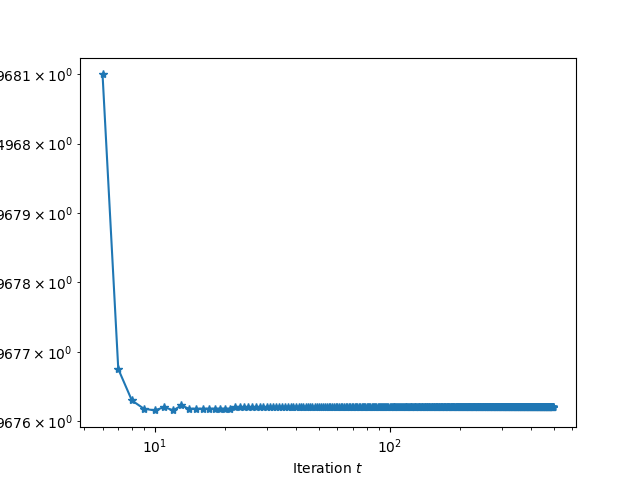
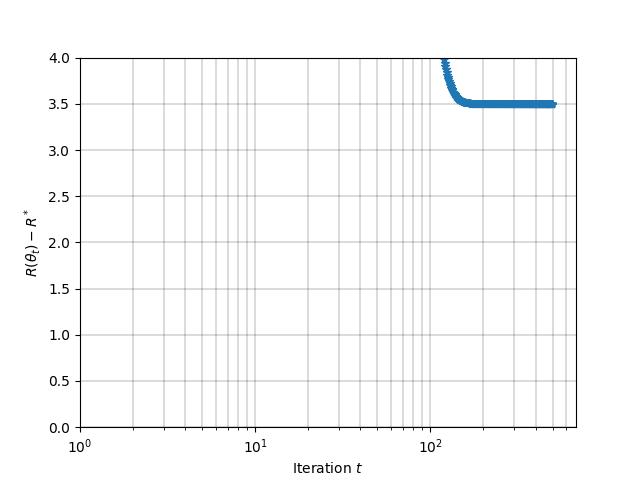
plt Xlim

diff --git a/.ipynb_checkpoints/paper_like-checkpoint.py b/.ipynb_checkpoints/paper_like-checkpoint.py
@@ -40,7 +40,8 @@ output_Tensor = torch.from_numpy(observations).to(torch.float32)
 MLP = Multi_Layer_Perceptron(input_dim=p,
                              intern_dim=intern_dim,
                              output_dim=1,
-                             depth=0)
+                             depth=0,
+                             isBiased = False)
 
 errors_MLP = train(MLP,
       input_Tensor,
@@ -49,7 +50,7 @@ errors_MLP = train(MLP,
       optimizer=optimizer,
       epochs=epochs,
       return_vals=True,
-      init_norm = 1,
+      init_norm = None,
       lr = 0.001)
 
 fig1,ax1 = plt.subplots(1,1)
@@ -57,5 +58,8 @@ ax1.plot(range(epochs), errors_MLP, marker='*')
 ax1.set_xlabel(r'Iteration $t$')
 ax1.set_ylabel(r'$R(\theta_t) - R^*$')
 ax1.set_xscale('log')
-ax1.set_yscale('log')
+ax1.set_yscale('linear')
+plt.xlim(left=1)
+plt.ylim(bottom=0)
+plt.grid(color='black', which="both", linestyle='-', linewidth=0.2)
 plt.savefig(f'figures/excess_risk_n{n}_t{epochs}_{optimizer}')

diff --git a/paper_like.py b/paper_like.py
@@ -40,7 +40,8 @@ output_Tensor = torch.from_numpy(observations).to(torch.float32)
 MLP = Multi_Layer_Perceptron(input_dim=p,
                              intern_dim=intern_dim,
                              output_dim=1,
-                             depth=0)
+                             depth=0,
+                             isBiased = False)
 
 errors_MLP = train(MLP,
       input_Tensor,
@@ -49,7 +50,7 @@ errors_MLP = train(MLP,
       optimizer=optimizer,
       epochs=epochs,
       return_vals=True,
-      init_norm = 1,
+      init_norm = None,
       lr = 0.001)
 
 fig1,ax1 = plt.subplots(1,1)
@@ -57,5 +58,8 @@ ax1.plot(range(epochs), errors_MLP, marker='*')
 ax1.set_xlabel(r'Iteration $t$')
 ax1.set_ylabel(r'$R(\theta_t) - R^*$')
 ax1.set_xscale('log')
-ax1.set_yscale('log')
+ax1.set_yscale('linear')
+plt.xlim(left=1)
+plt.ylim(bottom=0)
+plt.grid(color='black', which="both", linestyle='-', linewidth=0.2)
 plt.savefig(f'figures/excess_risk_n{n}_t{epochs}_{optimizer}')

diff --git a/.ipynb_checkpoints/utils_Sam-checkpoint.py b/.ipynb_checkpoints/utils_Sam-checkpoint.py
@@ -108,7 +108,7 @@ class Multi_Layer_Perceptron(nn.Sequential):
             
             layer.weight.data.uniform_(-stdv, stdv)
             if layer.bias is not None:
-                layer.biases.data.uniform_(-stdv, stdv)
+                layer.bias.data.uniform_(-stdv, stdv)
 
 class GD(torch.optim.Optimizer):
     def __init__(self, params, lr=0.01):

diff --git a/utils_Sam.py b/utils_Sam.py
@@ -108,7 +108,7 @@ class Multi_Layer_Perceptron(nn.Sequential):
             
             layer.weight.data.uniform_(-stdv, stdv)
             if layer.bias is not None:
-                layer.biases.data.uniform_(-stdv, stdv)
+                layer.bias.data.uniform_(-stdv, stdv)
 
 class GD(torch.optim.Optimizer):
     def __init__(self, params, lr=0.01):
